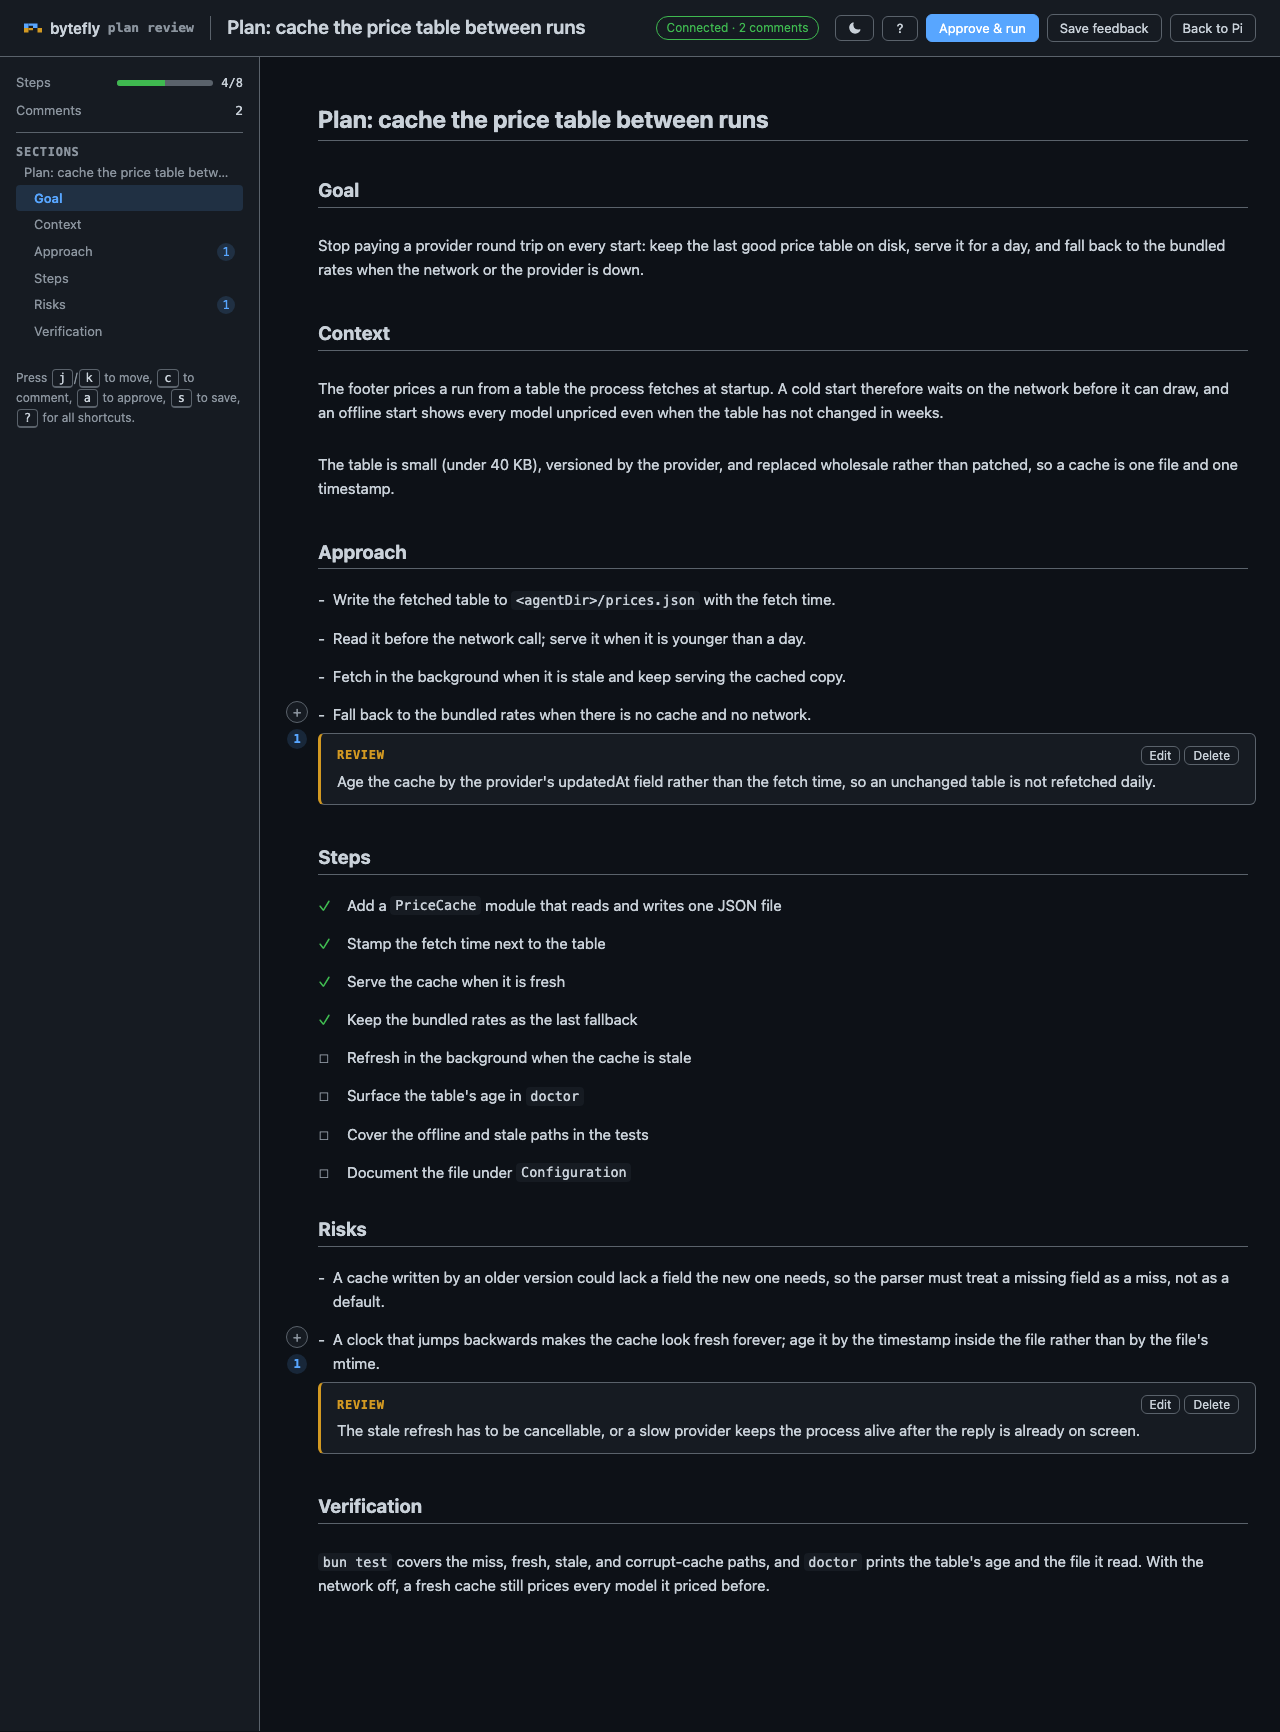
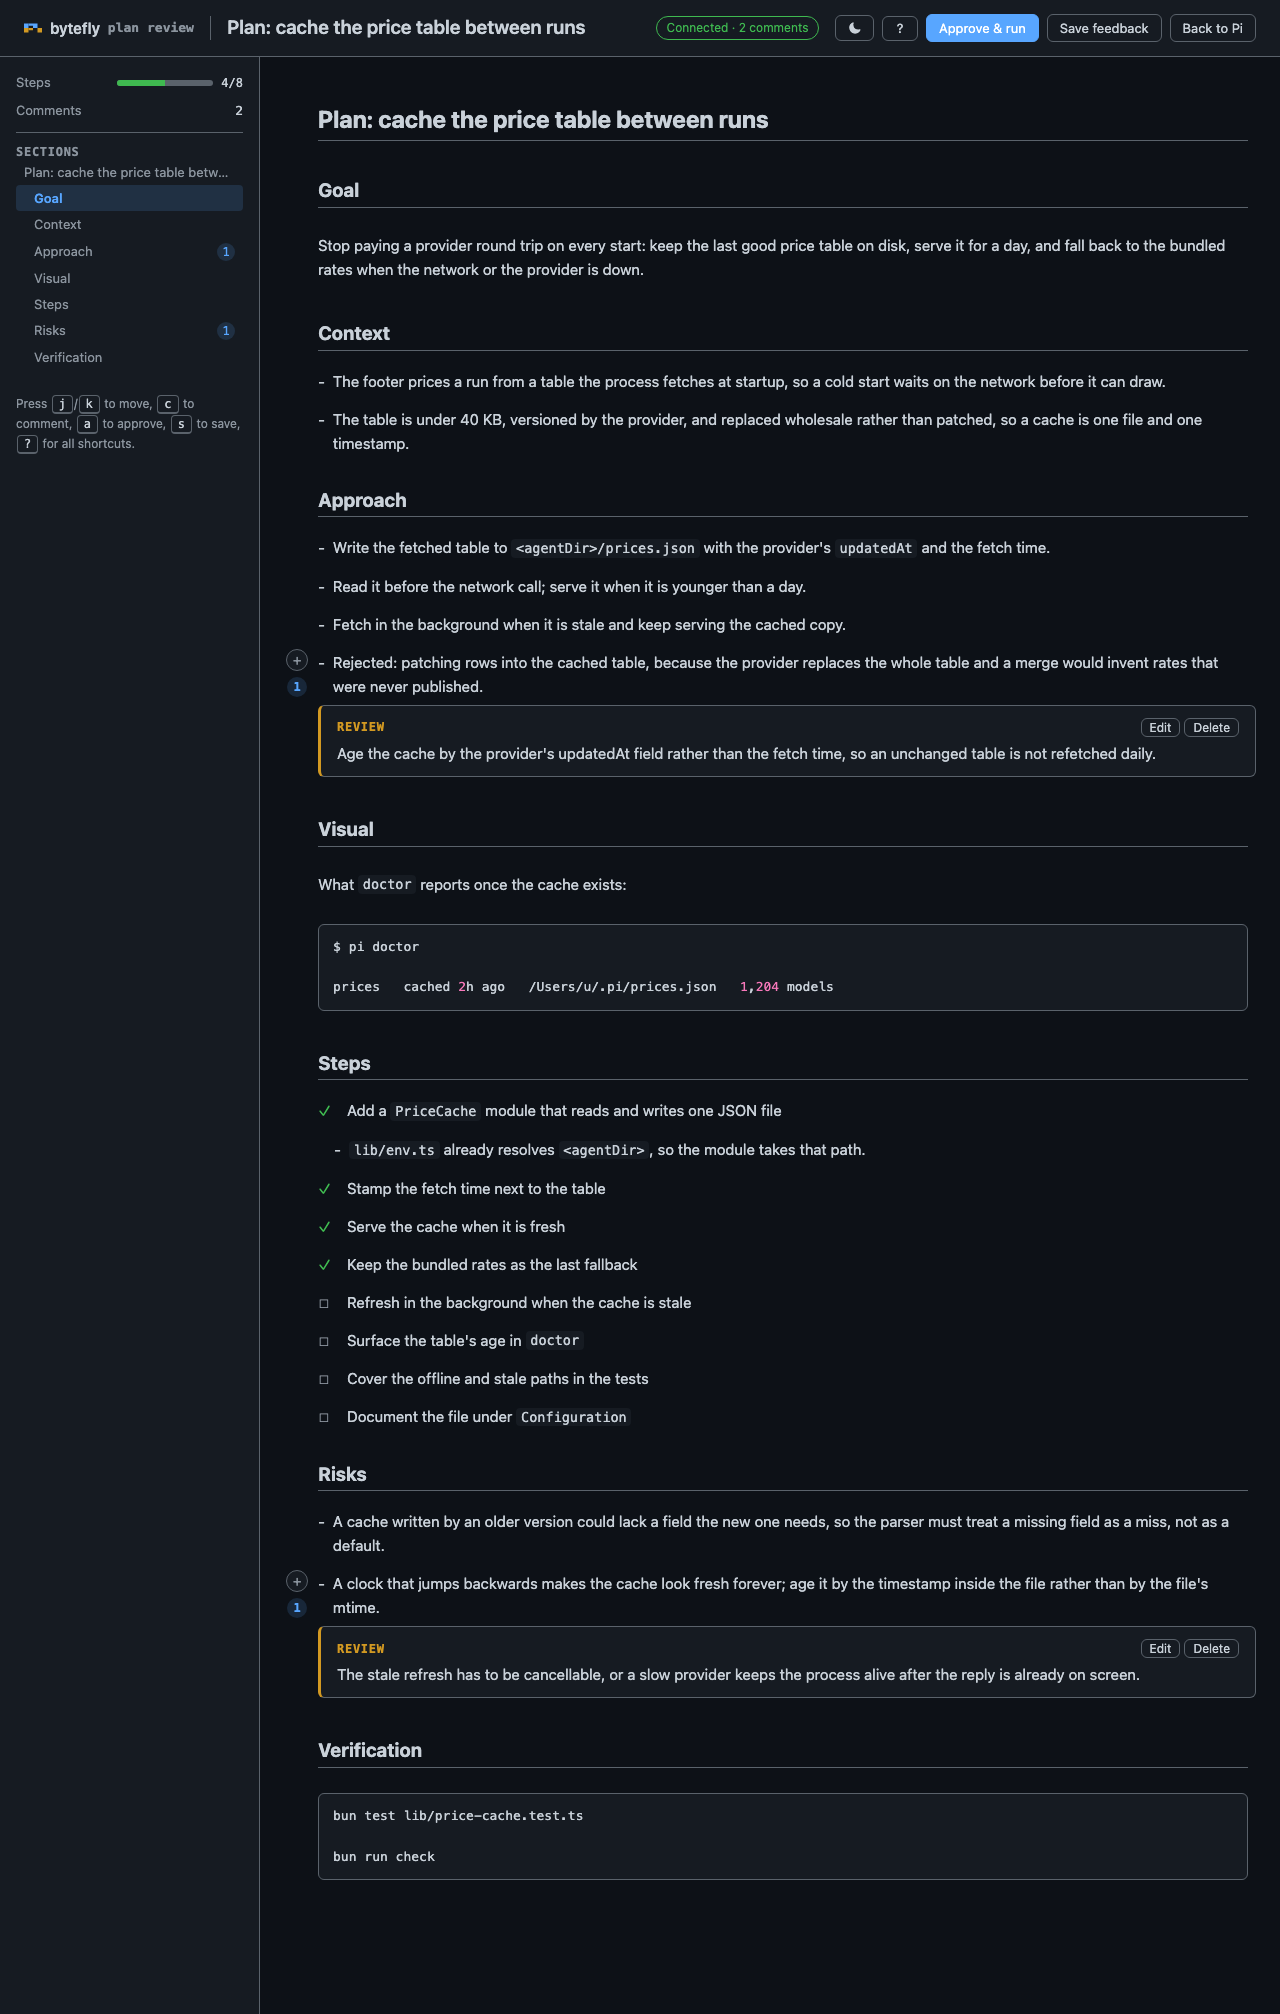
docs(plan): show the outline's Visual section in the example plans
Both example plans behind the plan README's screenshots predated the outline, so
the images illustrated the shape the docs had just stopped asking for: prose
`Context`, no `Visual`, and verification in a sentence.

`scripts/fixtures/plan-review.md` (the browser capture) and `PLAN_CONTENT` (the
terminal one) now follow the outline — context as the facts that force the
approach, the approach with the alternative it rejected, a `## Visual` fence with
one caption line, a nested note under the first step, and verification as a
fenced block. The two stored review comments and the 4/8 step progress stay, so
the page still shows inline threads and a changed-section marker.

The plan screen grows from 35 to 44 rows so the taller plan still reaches the
`Steps` checklist its `alt` text describes; both assets are recaptured from the
refreshed fixtures.

diff --git a/scripts/screenshot-fixtures.ts b/scripts/screenshot-fixtures.ts
@@ -298,17 +298,28 @@ export const PLAN_CONTENT = [
 	"",
 	"## Context",
 	"",
-	"The review screen renders the plan body with Pi's own Markdown component, so headings, lists, and code already match the rest of the application. Two things are still missing for a second review: the notice that a section was revised, and a position readout once the body is taller than the terminal.",
+	"- The body renders through Pi's `Markdown`, so headings, lists, and code already match the rest.",
+	"- What is missing for a second review is the notice that a section was revised, and a position readout.",
 	"",
 	"## Approach",
 	"",
 	"- Persist the per-section digests of the reviewed plan with the approval.",
 	"- Diff the new plan against them and mark every heading that changed.",
 	"- Draw the scroll gauge from the shared kit, with `n`/`p` section jumps.",
+	"- Rejected: comparing whole plans, because one edited word would flag every section.",
+	"",
+	"## Visual",
+	"",
+	"The scroll row on a second review:",
+	"",
+	"```",
+	"▰▰▰▰▰▱▱▱▱▱ 52%  ≡ Steps · changed  lines 12–31 of 42",
+	"```",
 	"",
 	"## Steps",
 	"",
 	"- [x] Store the review baseline alongside the approval",
+	"  - `runtime.ts` already persists the mode entry; this adds one field to it.",
 	"- [x] Diff sections on the next review",
 	"- [x] Draw the gauge from the shared kit",
 	"- [ ] Mark changed headings in the section label",
@@ -321,7 +332,10 @@ export const PLAN_CONTENT = [
 	"",
 	"## Verification",
 	"",
-	"`bun test extensions/plan` and the render checks in `screenshots.test.ts`.",
+	"```bash",
+	"bun test extensions/plan",
+	"bun run check",
+	"```",
 ].join("\n");
 export const PLAN: StoredPlan = {
 	path: PLAN_PATH,

diff --git a/scripts/screenshots.ts b/scripts/screenshots.ts
@@ -169,9 +169,10 @@ export const SCREENS: Record<string, Screen> = {
 		asset: "plan",
 		title: "π - my-pi-agent · exit_plan_mode",
 		// Wide enough for the whole hint row and tall enough to reach the Steps
-		// list; the frame size is fixed so the capture never depends on the resize.
-		bounds: { left: 80, top: 80, right: 1080, bottom: 740 },
-		size: { width: 120, rows: 35 },
+		// checklist under the fixture's Goal/Context/Approach/Visual sections; the
+		// frame size is fixed so the capture never depends on the resize.
+		bounds: { left: 80, top: 80, right: 1080, bottom: 903 },
+		size: { width: 120, rows: 44 },
 		render: (width, rows) => {
 			setThemeInstance(theme);
 			return new PlanViewComponent({

diff --git a/scripts/fixtures/plan-review.md b/scripts/fixtures/plan-review.md
@@ -8,24 +8,34 @@ or the provider is down.
 
 ## Context
 
-The footer prices a run from a table the process fetches at startup. A cold start
-therefore waits on the network before it can draw, and an offline start shows
-every model unpriced even when the table has not changed in weeks.
-
-The table is small (under 40 KB), versioned by the provider, and replaced
-wholesale rather than patched, so a cache is one file and one timestamp.
+- The footer prices a run from a table the process fetches at startup, so a cold
+  start waits on the network before it can draw.
+- The table is under 40 KB, versioned by the provider, and replaced wholesale
+  rather than patched, so a cache is one file and one timestamp.
 
 ## Approach
 
-- Write the fetched table to `<agentDir>/prices.json` with the fetch time.
+- Write the fetched table to `<agentDir>/prices.json` with the provider's
+  `updatedAt` and the fetch time.
 - Read it before the network call; serve it when it is younger than a day.
 - Fetch in the background when it is stale and keep serving the cached copy.
-- Fall back to the bundled rates when there is no cache and no network.
+- Rejected: patching rows into the cached table, because the provider replaces
+  the whole table and a merge would invent rates that were never published.
 > [!REVIEW] Age the cache by the provider's updatedAt field rather than the fetch time, so an unchanged table is not refetched daily.
+
+## Visual
+
+What `doctor` reports once the cache exists:
+
+```bash
+$ pi doctor
+prices   cached 2h ago   /Users/u/.pi/prices.json   1,204 models
+```
 
 ## Steps
 
 - [x] Add a `PriceCache` module that reads and writes one JSON file
+  - `lib/env.ts` already resolves `<agentDir>`, so the module takes that path.
 - [x] Stamp the fetch time next to the table
 - [x] Serve the cache when it is fresh
 - [x] Keep the bundled rates as the last fallback
@@ -44,6 +54,7 @@ wholesale rather than patched, so a cache is one file and one timestamp.
 
 ## Verification
 
-`bun test` covers the miss, fresh, stale, and corrupt-cache paths, and `doctor`
-prints the table's age and the file it read. With the network off, a fresh cache
-still prices every model it priced before.
+```bash
+bun test lib/price-cache.test.ts
+bun run check
+```
